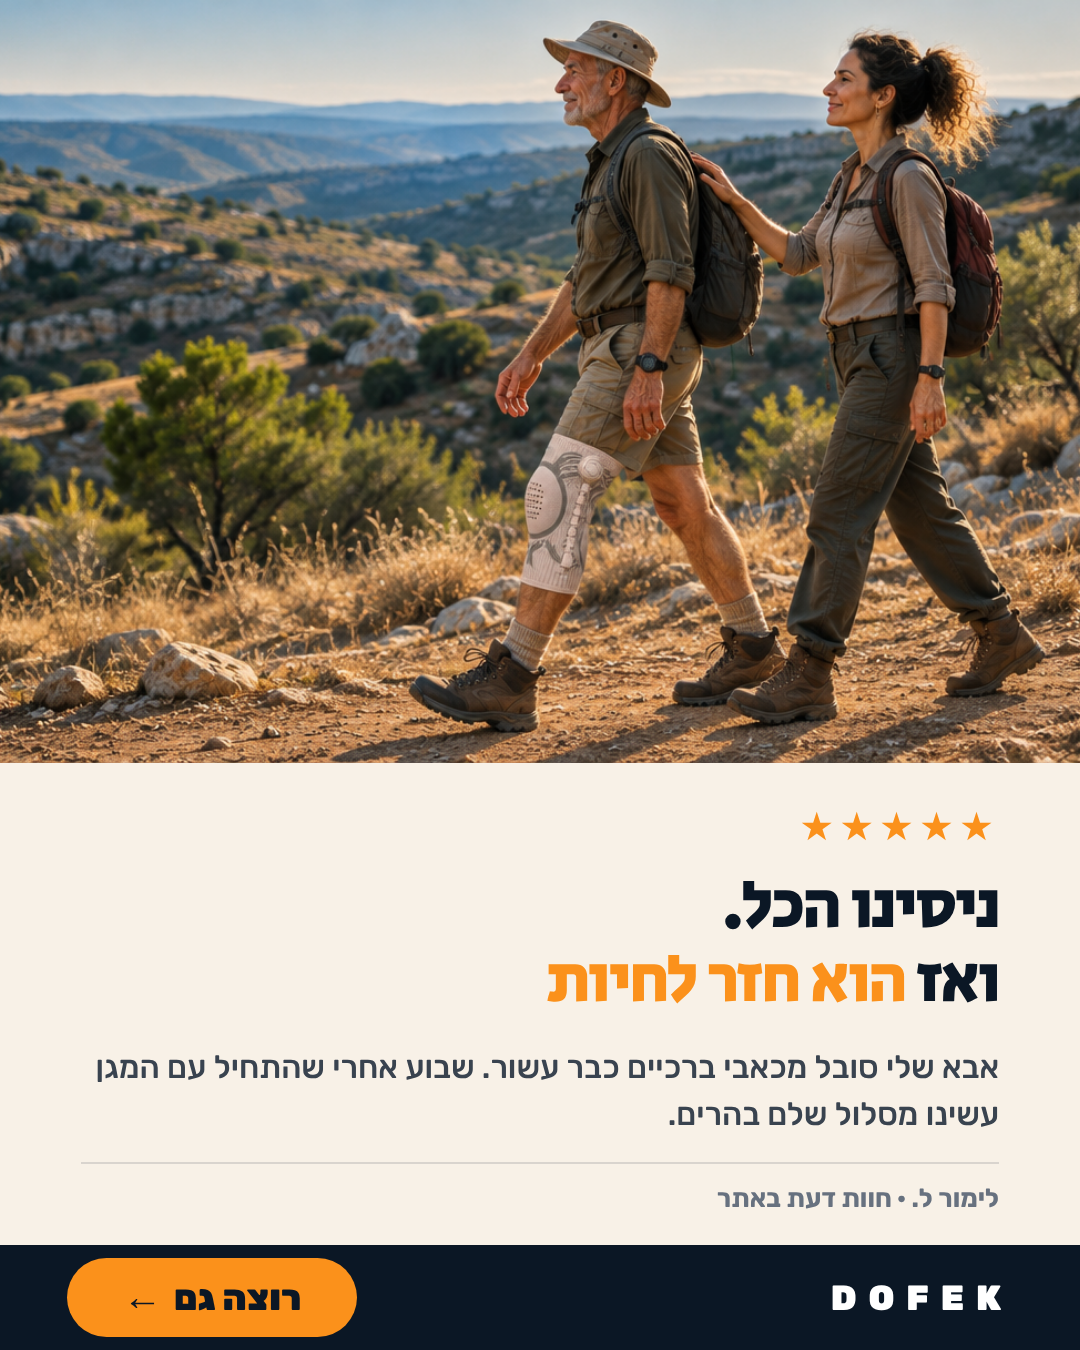
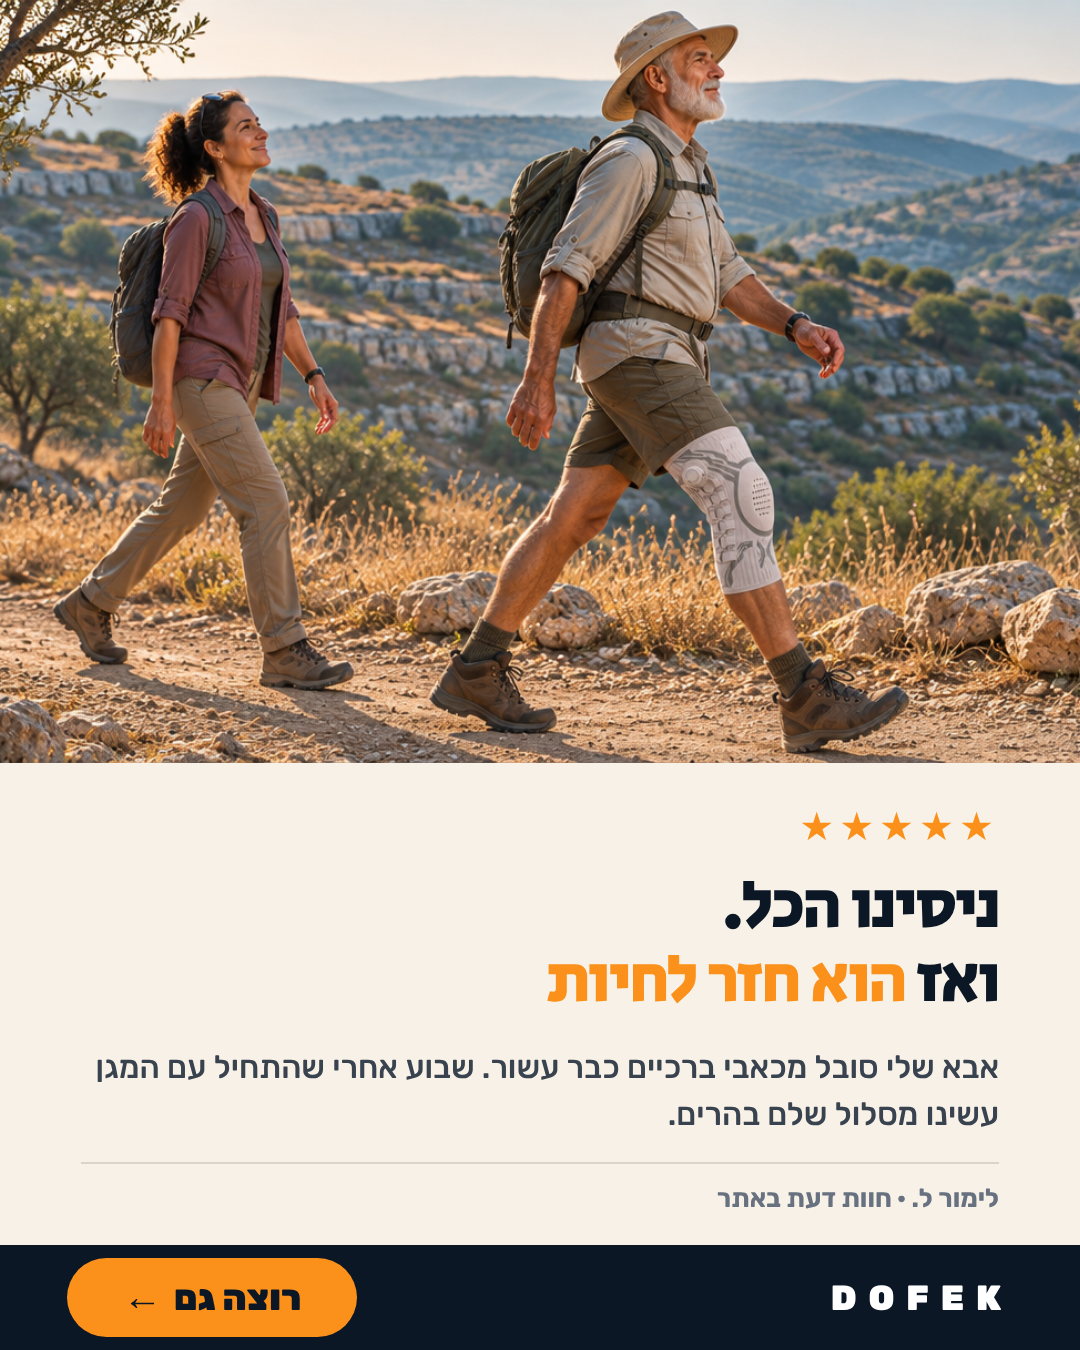
give the second ad its own photograph
He caught that A and B ran on the identical image. Two ads sharing a photo in
one campaign compete with each other and read as a mistake rather than a series.

B's frame was chosen from its own sentence: "came back to life" is not the two
of them walking together, it is the father leading and the daughter following
behind, watching him. The reversal is the story. Four ads now stand on four
separate photographs.

Claude-Session: https://claude.ai/code/session_01L77BxqNt87QLWb9joW6UGc

diff --git a/variants/dofek/ads/concepts/renders/mk7.js b/variants/dofek/ads/concepts/renders/mk7.js
@@ -47,7 +47,7 @@ const ADS=[
    head:'לפני חודשיים הוא לא<br>הצליח ללכת <em>מאה מטר</em>',
    q:'בשבת האחרונה עשינו מסלול שלם. הוא אמר שלא הרגיש אפילו מעט כאב.',
    who:'לימור ל. · חוות דעת באתר' },
- { id:'DOFEK-story-B', img:'w1.png', phH:Math.round(H*0.565), pos:'center 50%', zoom:1.0,
+ { id:'DOFEK-story-B', img:'w6.png', phH:Math.round(H*0.565), pos:'center 50%', zoom:1.0,
    head:'ניסינו הכל.<br>ואז <em>הוא חזר לחיות</em>',
    q:'אבא שלי סובל מכאבי ברכיים כבר עשור. שבוע אחרי שהתחיל עם המגן עשינו מסלול שלם בהרים.',
    who:'לימור ל. · חוות דעת באתר' },

diff --git a/variants/dofek/ads/concepts/2026-11-24-sketches.md b/variants/dofek/ads/concepts/2026-11-24-sketches.md
@@ -419,3 +419,19 @@ A, B ו-C אושרו. D נפסלה על שתי סיבות, ושתיהן נכונ
 
 ההבדל: כדור CTA מעוצב הוא עיצוב מודעה סטנדרטי. כפתור מזויף עם סמן יד מצויר
 הוא חיקוי ממשק. הראשון בסדר, השני לא.
+
+## סבב 10 — ארבעה צילומים שונים, לא שלושה
+
+הוא תפס מה שאני החמצתי: **A ו-B רצו על אותו צילום בדיוק.** שתי מודעות עם
+אותה תמונה בקמפיין אחד מתחרות זו בזו ונראות כמו תקלה, לא כמו סדרה.
+
+ל-B נוצר צילום משלה, והפריים נבחר לפי המשפט עצמו. «חזר לחיות» אינו שניהם
+הולכים יחד — **זה האבא מוביל והבת מאחוריו.** היא כבר לא תומכת בו, היא
+הולכת אחריו ומסתכלת עליו. היפוך התפקידים הוא הסיפור.
+
+כל ארבע המודעות עומדות עכשיו על ארבעה צילומים נפרדים:
+
+    A  w1  אב ובת צועדים יחד, ידה על גבו
+    B  w6  האב מוביל, הבת מאחוריו
+    C  w2  סבתא ושני נכדים, אבן ירושלמית
+    D  w5  שוק, סידור ארגזים
